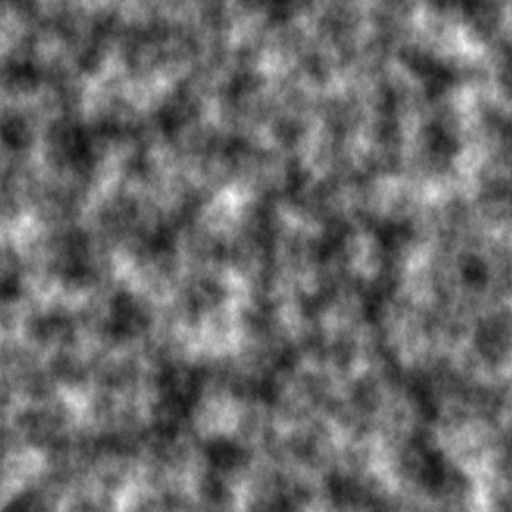
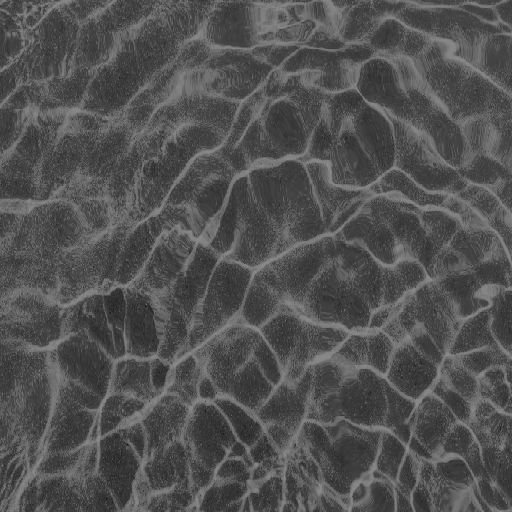
edit dyes a bit
also dunno if the image I used for aqua dye looks good or not ingame lol

diff --git a/Hooks/AvalonReflection.cs b/Hooks/AvalonReflection.cs
@@ -1,37 +1,22 @@
-using Microsoft.Xna.Framework.Graphics;
-using ReLogic.Content;
 using System.Reflection;
 using Terraria;
-using Terraria.Graphics.Shaders;
-using Terraria.ModLoader;
 
 namespace Avalon.Hooks;
 internal class AvalonReflection
 {
     private static FieldInfo Main_MH = null;
-    private static FieldInfo Asd_uImage = null;
-
-    internal static string PATH = "";
 
     internal static int Main_mH
     {
         get => (int)Main_MH.GetValue(null);
         set => Main_MH.SetValue(null, value);
     }
-
-    internal static Asset<Texture2D> ASD_uImage
-    {
-        get => (Asset<Texture2D>)Asd_uImage.GetValue(null);
-        set => Asd_uImage.SetValue(new ArmorShaderData(new Ref<Effect>(ModContent.Request<Effect>("Avalon/Effects/" + PATH, AssetRequestMode.ImmediateLoad).Value), PATH), value);
-    }
     internal static void Init()
     {
         Main_MH = typeof(Main).GetField("mH", BindingFlags.NonPublic | BindingFlags.Static);
-        Asd_uImage = typeof(ArmorShaderData).GetField("_uImage", BindingFlags.Instance | BindingFlags.NonPublic);
     }
     internal static void Unload()
     {
         Main_MH = null;
-        Asd_uImage = null;
     }
 }

diff --git a/Items/Dyes/AquaDye.cs b/Items/Dyes/AquaDye.cs
@@ -14,12 +14,12 @@ public class AquaDye : ModItem
         // Avoid loading assets on dedicated servers. They don't use graphics cards.
         if (!Main.dedServ)
         {
-            // The following code creates an effect (shader) reference and associates it with this item's type Id.
+            // The following code creates an effect (shader) reference and associates it with this item's type ID.
             GameShaders.Armor.BindShader(
                 Item.type,
                 new ArmorShaderData(
                     new Ref<Effect>(Mod.Assets.Request<Effect>("Effects/AquaDye", AssetRequestMode.ImmediateLoad)
-                        .Value), "AquaDye").UseImage("Images/Misc/Perlin") // Be sure to update the effect path and pass name here.
+                        .Value), "AquaDye").UseImage(ModContent.Request<Texture2D>("Avalon/Assets/Shaders/AquaDye"))
             );
         }
 
@@ -33,7 +33,7 @@ public class AquaDye : ModItem
         int dye = Item.dye;
 
         Item.CloneDefaults(ItemID.GelDye);
-        Item.rare = ItemRarityID.Blue;
+        Item.rare = ItemRarityID.Green;
         Item.dye = dye;
     }
 }

diff --git a/ClassExtensions.cs b/ClassExtensions.cs
@@ -27,12 +27,7 @@ public static class ClassExtensions
         (item.headSlot != -1 || item.bodySlot != -1 || item.legSlot != -1) && !item.vanity;
 
     public static void Active(this Tile t, bool a) => t.HasTile = a;
-    public static ArmorShaderData UseModdedImage(this ArmorShaderData data, string path)
-    {
-        AvalonReflection.PATH = path;
-        AvalonReflection.ASD_uImage = ModContent.Request<Texture2D>("Avalon/Assets/Shaders/" + path);
-        return data;
-    }
+
     public static void AttemptToConvertNPCToContagion(this NPC n)
     {
         if (n.type == NPCID.Bunny)

diff --git a/Common/Players/AvalonPlayer.cs b/Common/Players/AvalonPlayer.cs
@@ -266,6 +266,9 @@ public class AvalonPlayer : ModPlayer
         rewardPool.Add(ModContent.ItemType<Items.Dyes.CrimstoneDye>());
         rewardPool.Add(ModContent.ItemType<Items.Dyes.ChunkstoneDye>());
         rewardPool.Add(ModContent.ItemType<Items.Dyes.StoneDye>());
+        rewardPool.Add(ModContent.ItemType<Items.Dyes.AquaDye>());
+        rewardPool.Add(ModContent.ItemType<Items.Dyes.LavaDye>());
+        rewardPool.Add(ModContent.ItemType<Items.Dyes.CloudyDye>());
     }
     public bool PotionSicknessSoundPlayed;
     public override void PostUpdateBuffs()

diff --git a/Items/Dyes/AetheriumDye.cs b/Items/Dyes/AetheriumDye.cs
@@ -33,7 +33,7 @@ public class AetheriumDye : ModItem
         int dye = Item.dye;
 
         Item.CloneDefaults(ItemID.GelDye);
-        Item.rare = ItemRarityID.Green;
+        Item.rare = ItemRarityID.LightRed;
         Item.dye = dye;
     }
 }

diff --git a/Items/Dyes/HighVisDye.cs b/Items/Dyes/HighVisDye.cs
@@ -34,7 +34,7 @@ public class HighVisDye : ModItem
         int dye = Item.dye;
 
         Item.CloneDefaults(ItemID.GelDye);
-        Item.rare = ItemRarityID.Green;
+        Item.rare = ItemRarityID.LightRed;
         Item.dye = dye;
     }
 }

diff --git a/Items/Dyes/ShimmerDye.cs b/Items/Dyes/ShimmerDye.cs
@@ -34,7 +34,7 @@ public class ShimmerDye : ModItem
         int dye = Item.dye;
 
         Item.CloneDefaults(ItemID.GelDye);
-        Item.rare = ItemRarityID.Green;
+        Item.rare = ItemRarityID.LightRed;
         Item.dye = dye;
     }
 }

diff --git a/Items/Dyes/CloudyDye.cs b/Items/Dyes/CloudyDye.cs
@@ -33,7 +33,7 @@ public class CloudyDye : ModItem
         int dye = Item.dye;
 
         Item.CloneDefaults(ItemID.GelDye);
-        Item.rare = ItemRarityID.Blue;
+        Item.rare = ItemRarityID.Orange;
         Item.dye = dye;
     }
 }

diff --git a/Items/Dyes/EchoDye.cs b/Items/Dyes/EchoDye.cs
@@ -34,7 +34,7 @@ public class EchoDye : ModItem
         int dye = Item.dye;
 
         Item.CloneDefaults(ItemID.GelDye);
-        Item.rare = ItemRarityID.Green;
+        Item.rare = ItemRarityID.Orange;
         Item.dye = dye;
     }
 }

diff --git a/Items/Dyes/LavaDye.cs b/Items/Dyes/LavaDye.cs
@@ -33,7 +33,7 @@ public class LavaDye : ModItem
         int dye = Item.dye;
 
         Item.CloneDefaults(ItemID.GelDye);
-        Item.rare = ItemRarityID.Blue;
+        Item.rare = ItemRarityID.Orange;
         Item.dye = dye;
     }
 }
